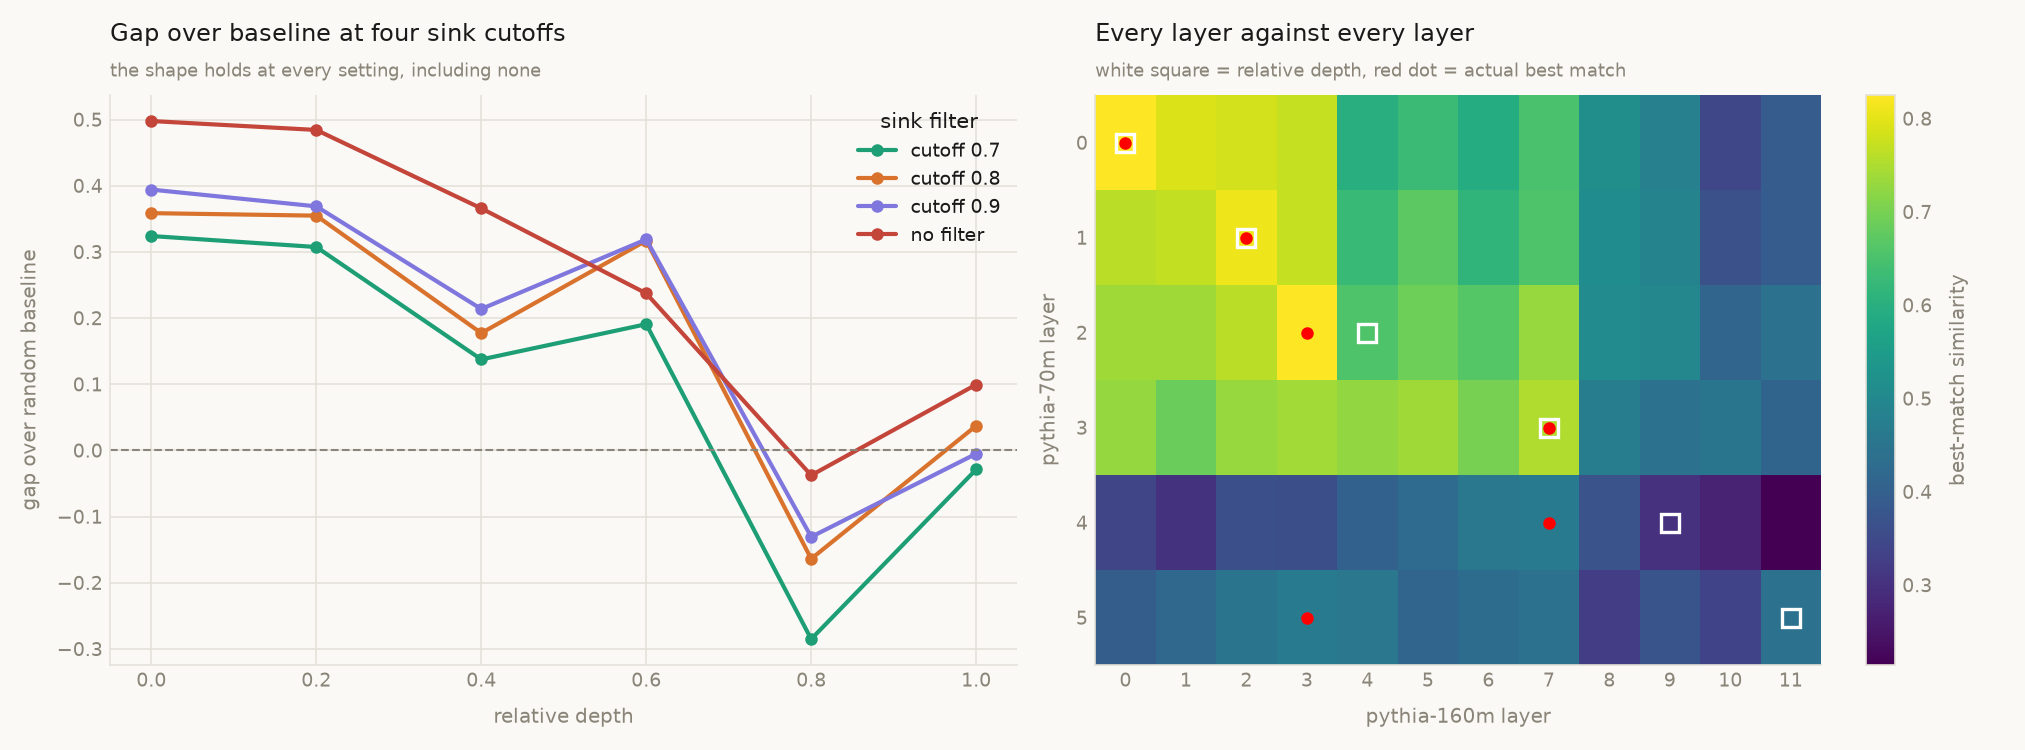
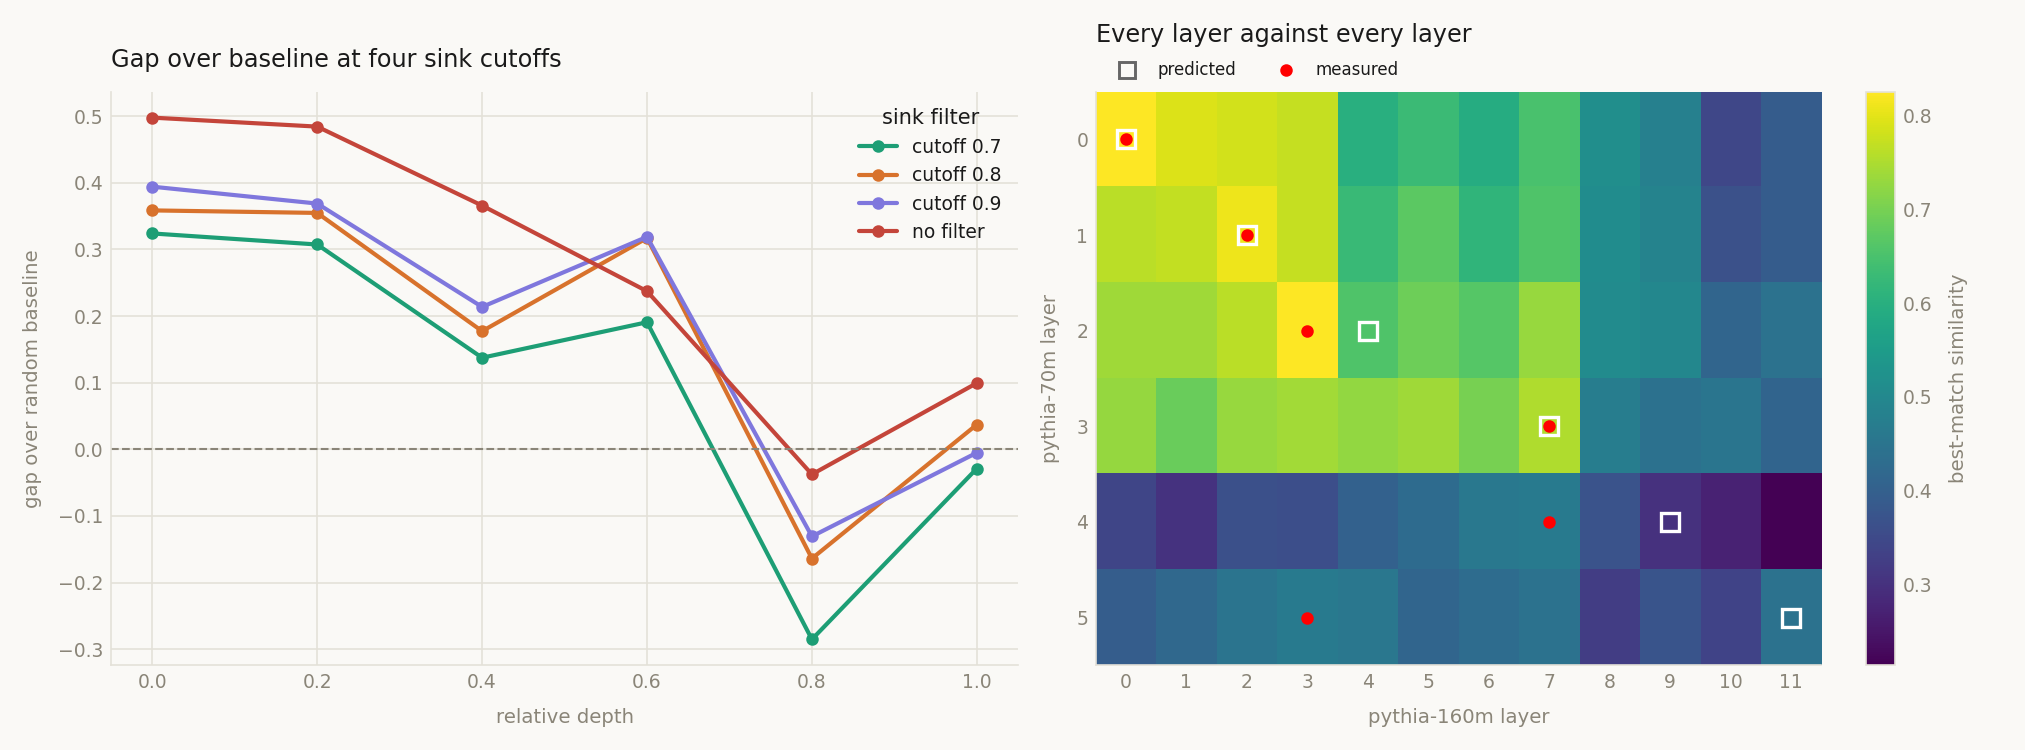
E4: replace the marker key with a legend

diff --git a/src/experiments/e4_cutoff_and_grid.py b/src/experiments/e4_cutoff_and_grid.py
@@ -16,6 +16,7 @@ from src.attnlib.extract import load_sentences, get_data
 from src.attnlib.metrics import sink_fraction, relative_depth_pairs
 from src.attnlib.matching import (best_match, random_baseline, live_heads,
                                   head_similarity)
+from matplotlib.lines import Line2D
 
 MODELS = ["EleutherAI/pythia-70m", "EleutherAI/pythia-160m"]
 SENTENCES_PATH = "data/sentences.txt"
@@ -144,8 +145,7 @@ def main():
     ax.axhline(0, color=style.MUTED, lw=1, ls="--")
     ax.set_xlabel("relative depth")
     ax.set_ylabel("gap over random baseline")
-    style.titled(ax, "Gap over baseline at four sink cutoffs",
-                 "the shape holds at every setting, including none")
+    ax.set_title("Gap over baseline at four sink cutoffs", loc="left", pad=12)
     ax.legend(title="sink filter")
 
     ax = axes[1]
@@ -155,18 +155,29 @@ def main():
     ax.set_xticks(range(LB))
     ax.set_yticks(range(LA))
     ax.grid(False)
+
     for layer_a in range(LA):
         ax.plot(predicted[layer_a], layer_a, marker="s", ms=9,
                 mfc="none", mec="white", mew=1.6)
         ax.plot(int(argmax[layer_a]), layer_a, marker="o", ms=5, color="red")
+
     fig.colorbar(im, ax=ax, label="best-match similarity")
-    style.titled(ax, "Every layer against every layer",
-                 "white square = relative depth, red dot = actual best match")
+
+    handles = [
+        Line2D([], [], marker="s", ms=8, mfc="none", mec="#666", mew=1.4,
+               ls="none", label="predicted"),
+        Line2D([], [], marker="o", ms=5, color="red", ls="none",
+               label="measured"),
+    ]
+    ax.legend(handles=handles, loc="lower left", bbox_to_anchor=(0, 0.995),
+              ncol=2, fontsize=8, frameon=False)
+
+    ax.set_title("Every layer against every layer", loc="left", pad=24)
 
     plt.tight_layout()
     plt.savefig(f"{OUT}/e4_cutoff_and_grid.png", dpi=150)
     plt.close()
-
+    
     fig, ax = plt.subplots(figsize=(7, 4.2))
     for i, cutoff in enumerate(CUTOFFS):
         rows = sweep[cutoff]
